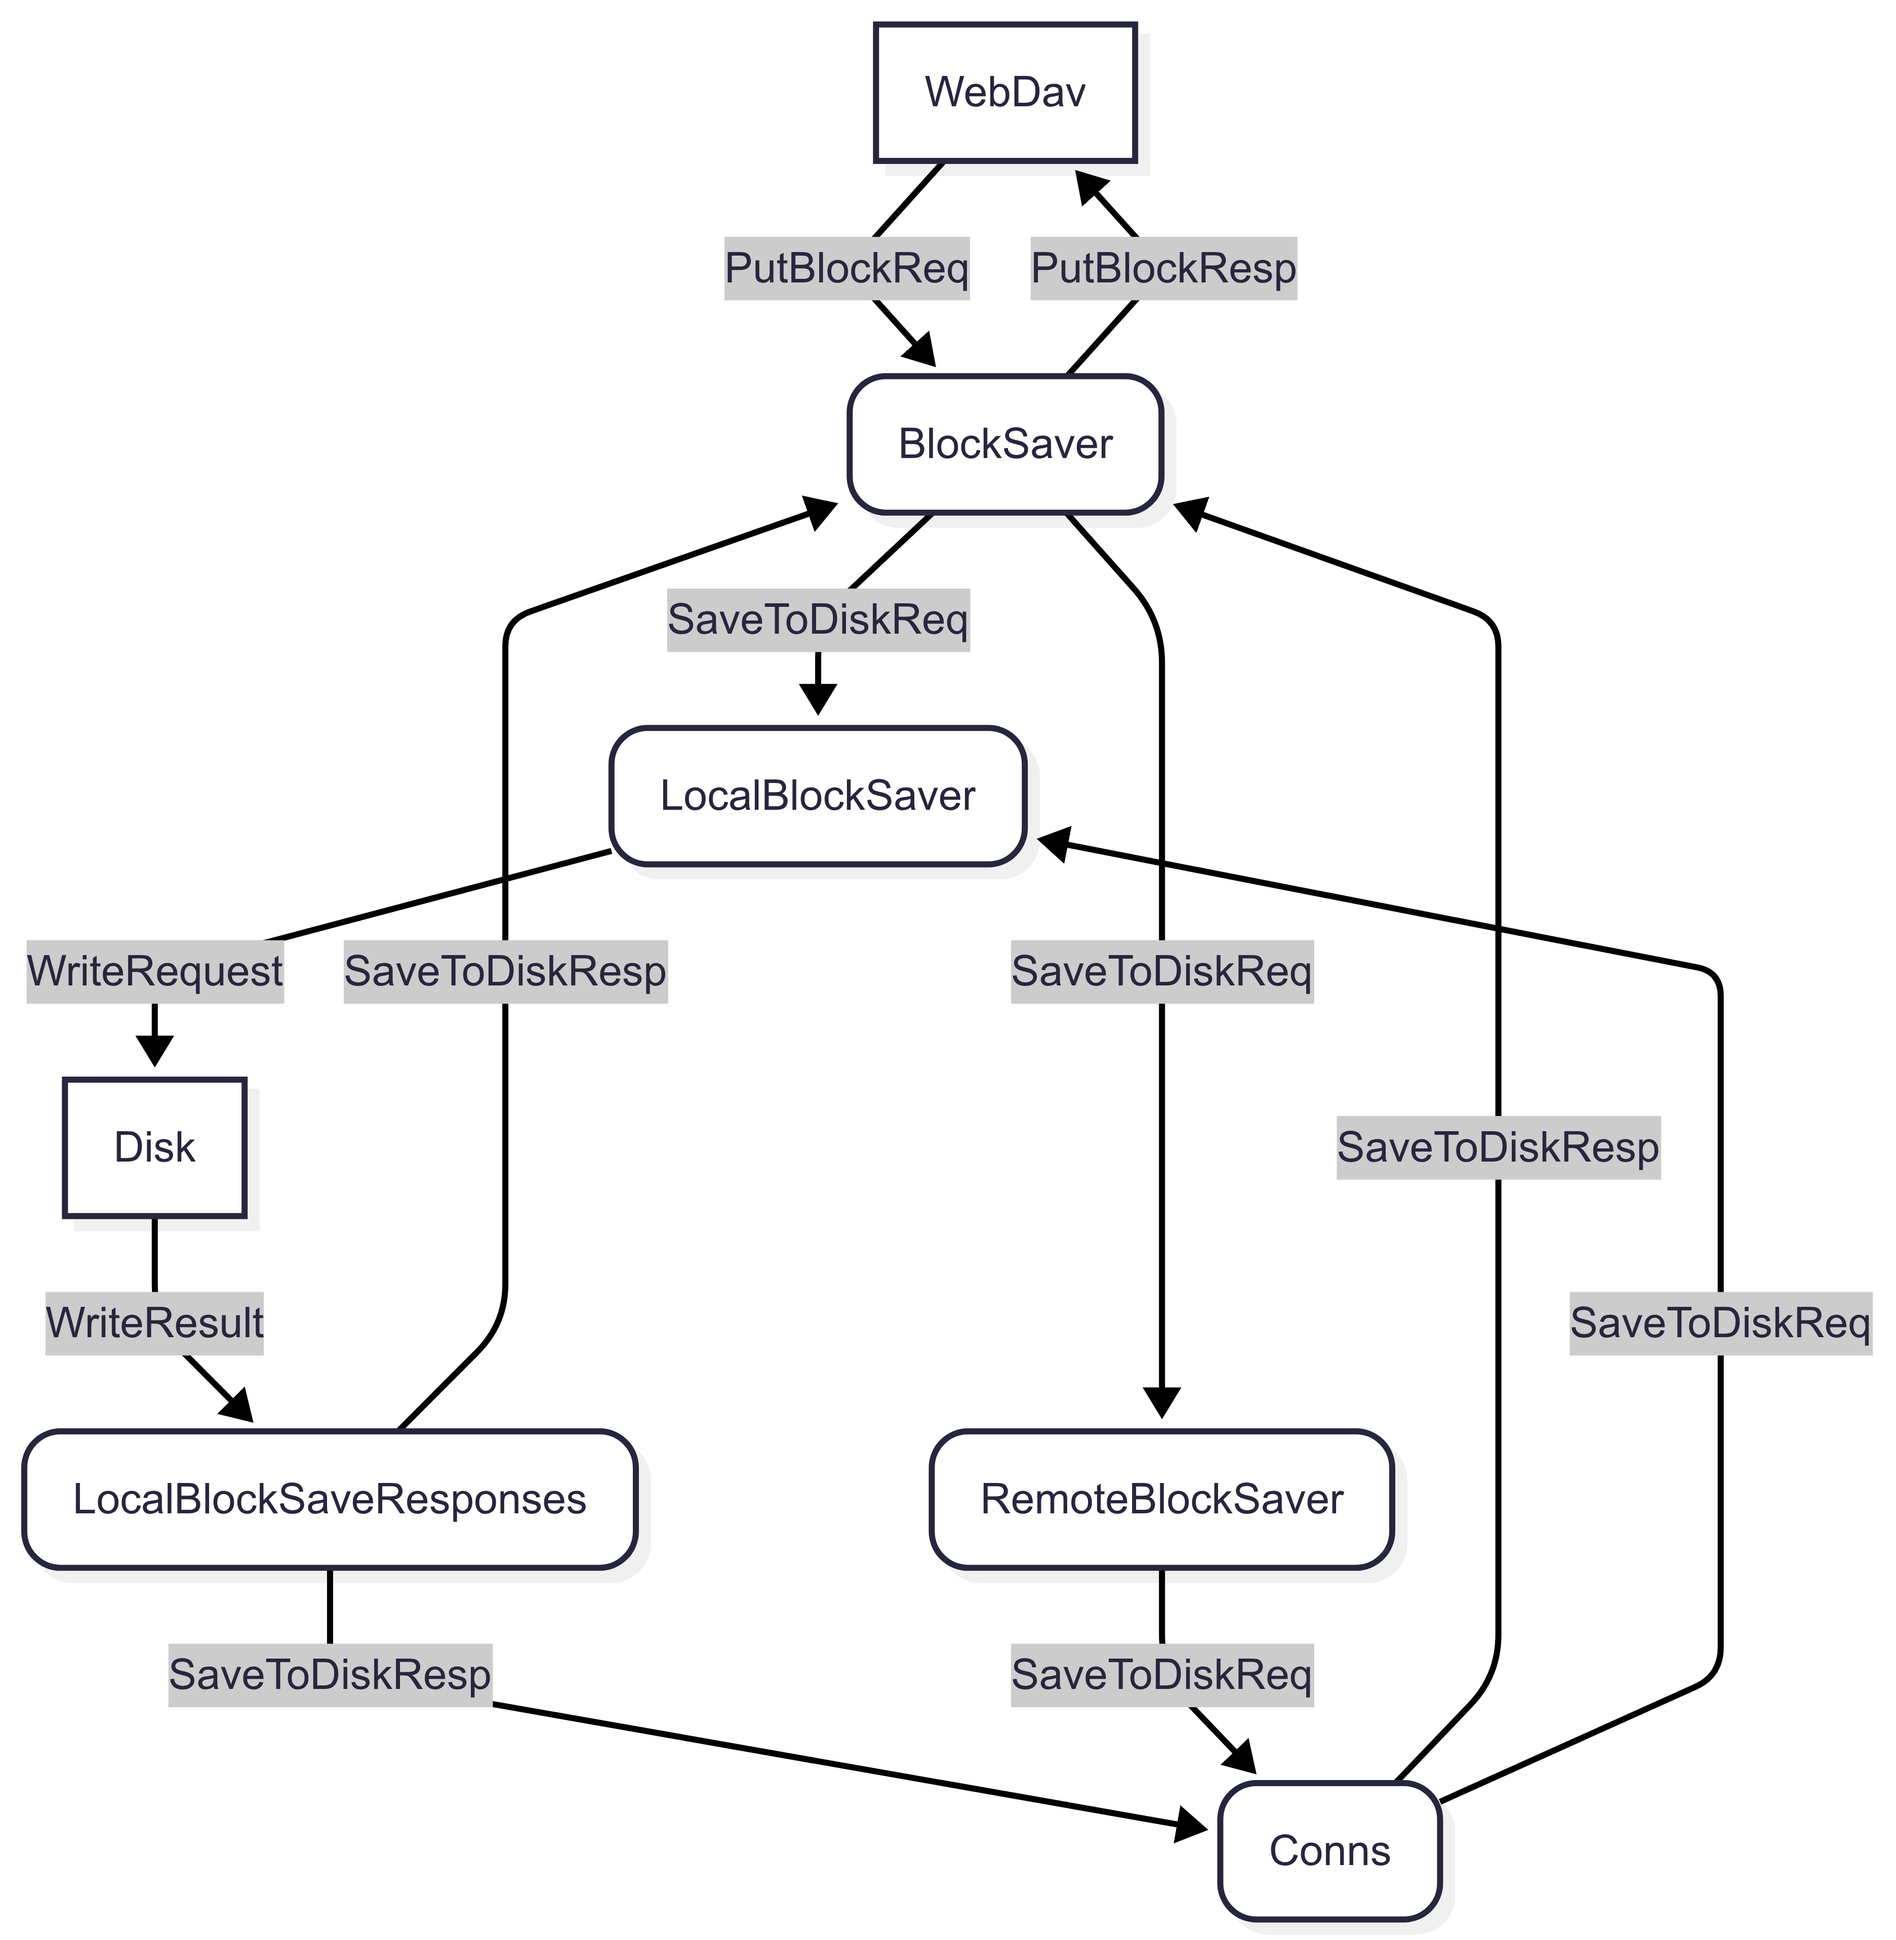
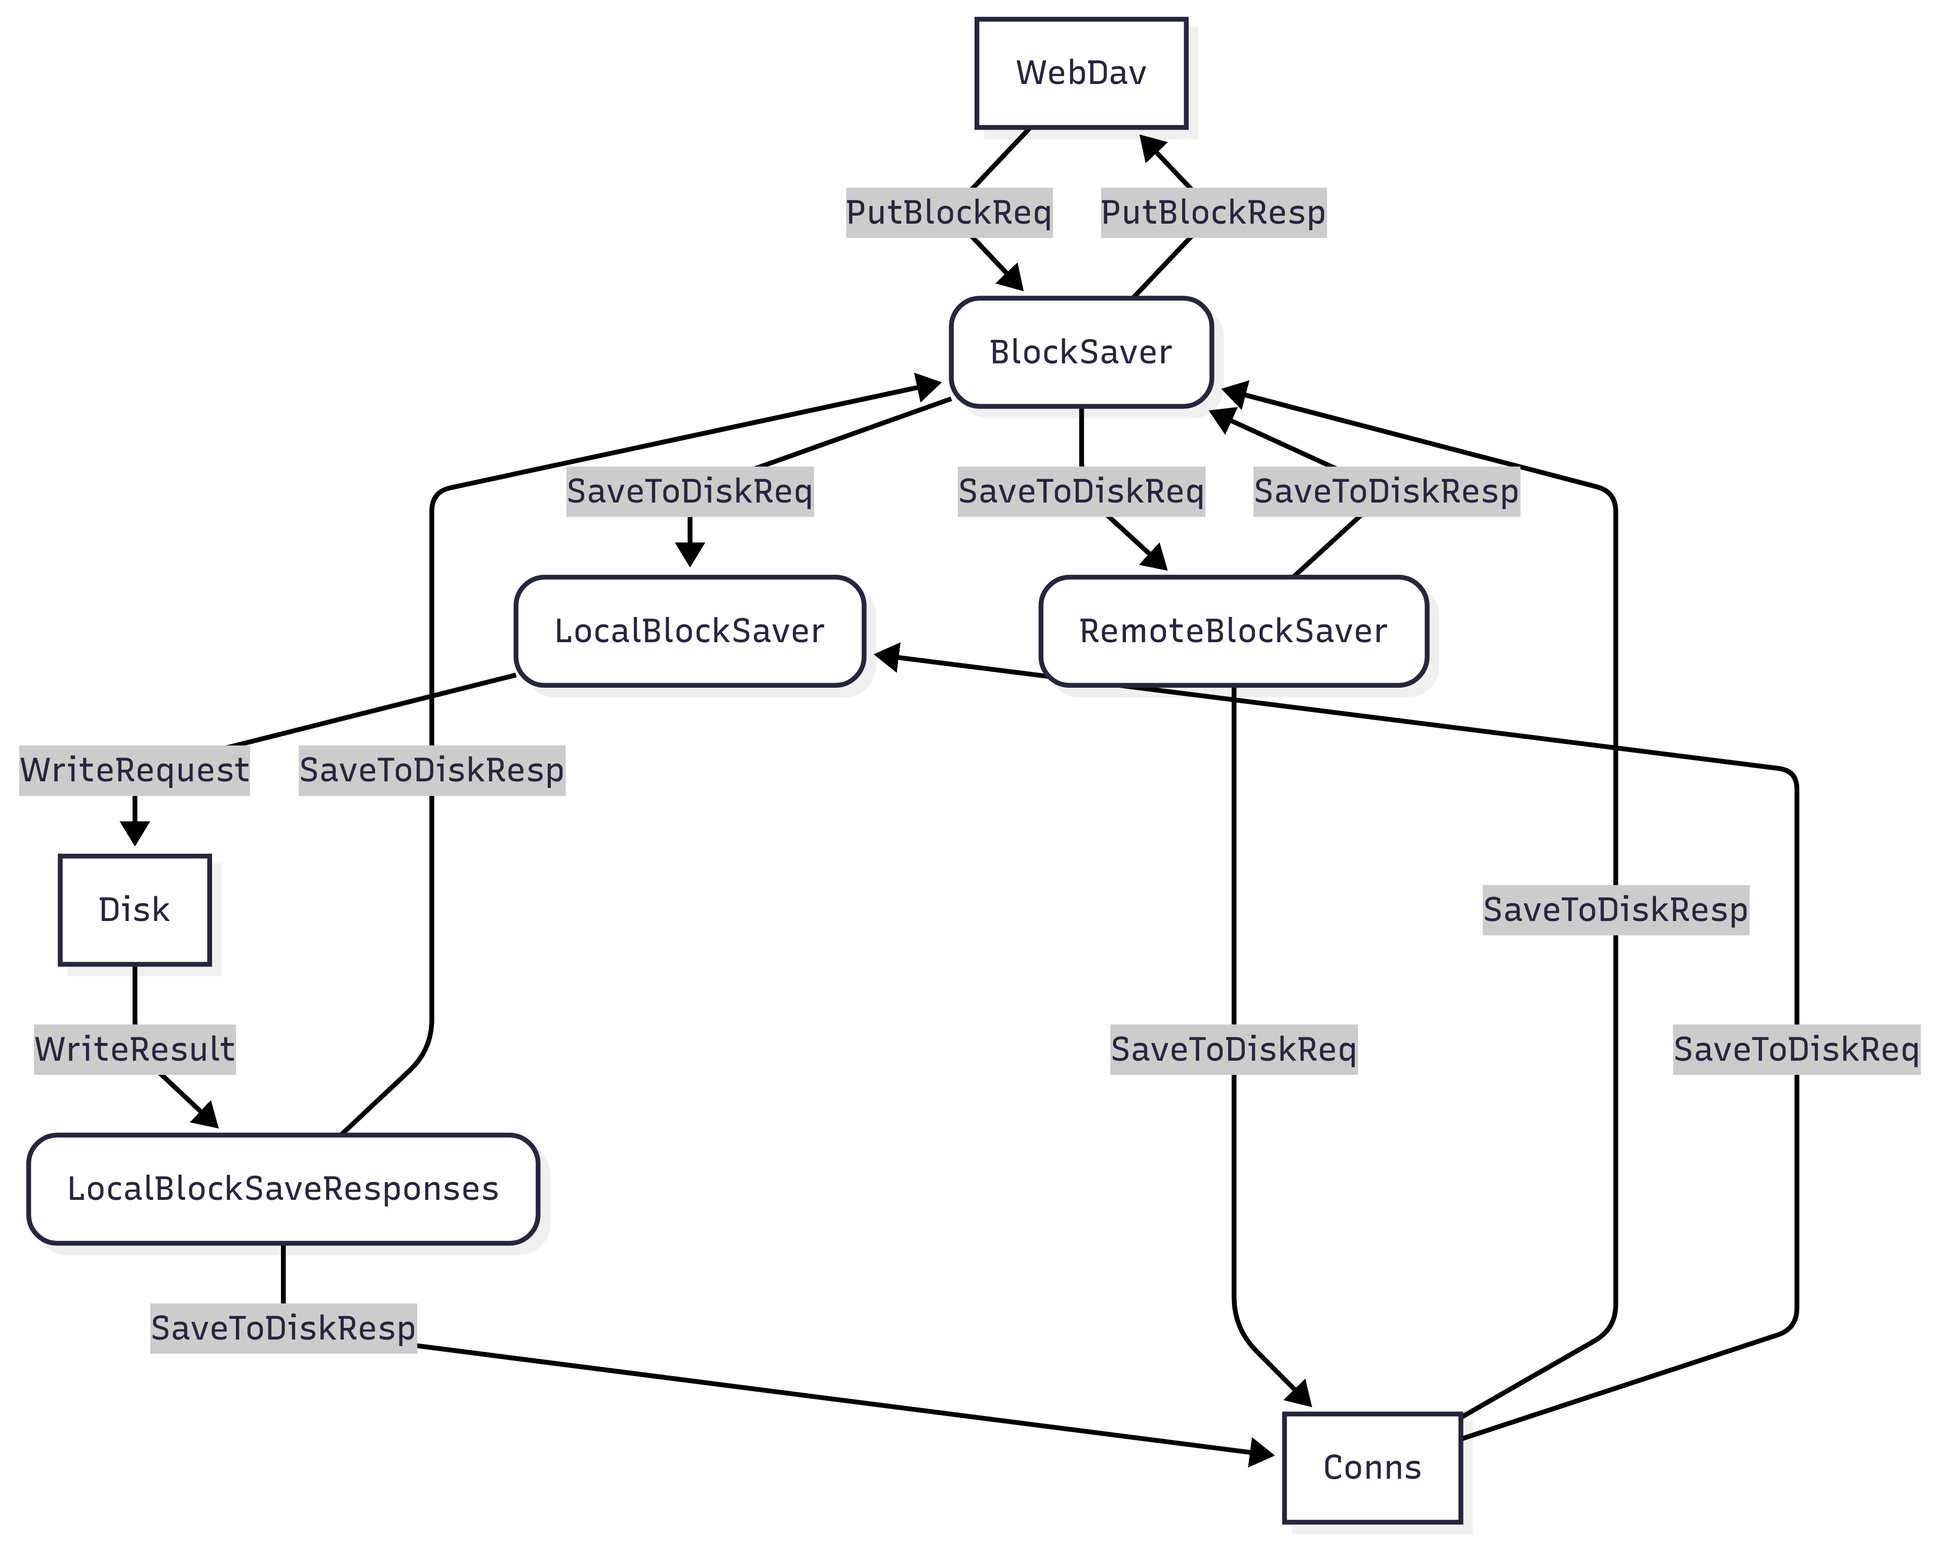
almost

diff --git a/tealfs.go b/tealfs.go
@@ -76,7 +76,7 @@ func startTealFs(globalPath string, webdavAddress string, uiAddress string, node
 	custodian.Commands = custodianCommands
 	custodian.Start(ctx)
 
-	_ = conns.NewConns(
+	conns := conns.NewConns(
 		m.ConnsMgrStatuses,
 		m.ConnsMgrReceives,
 		connReqs,
@@ -97,12 +97,18 @@ func startTealFs(globalPath string, webdavAddress string, uiAddress string, node
 		ctx,
 	)
 
+	addedDisks := make(chan *disk.Disk)
+	m.AddedDisk = addedDisks
+
 	webdavPutReq := make(chan model.PutBlockReq)
 	webdavPutResp := make(chan model.PutBlockResp)
 
 	localSave := make(chan blocksaver.SaveToDiskReq)
 	remoteSave := make(chan blocksaver.SaveToDiskReq)
 	saveResp := make(chan blocksaver.SaveToDiskResp)
+
+	conns.OutSaveToDiskReq = localSave
+	conns.OutSaveToDiskResp = saveResp
 
 	bs := blocksaver.BlockSaver{
 		Req:         webdavPutReq,
@@ -115,7 +121,28 @@ func startTealFs(globalPath string, webdavAddress string, uiAddress string, node
 	}
 	go bs.Start(ctx)
 
-	lbs := blocksaver.LocalBlockSaver{}
+	lbs := blocksaver.LocalBlockSaver{
+		Req:   localSave,
+		Disks: &m.Disks,
+	}
+	go lbs.Start(ctx)
+
+	rbs := blocksaver.RemoteBlockSaver{
+		Req:         remoteSave,
+		Sends:       m.MgrConnsSends,
+		NoConnResp:  saveResp,
+		NodeConnMap: nodeConnMapper,
+	}
+	go rbs.Start(ctx)
+
+	lbsr := blocksaver.LocalBlockSaveResponses{
+		InDisks:             addedDisks,
+		LocalWriteResponses: saveResp,
+		Sends:               m.MgrConnsSends,
+		NodeConnMap:         nodeConnMapper,
+		NodeId:              m.NodeId,
+	}
+	go lbsr.Start(ctx)
 
 	_ = webdav.New(
 		m.NodeId,

diff --git a/pkg/blocksaver/local_block_save_response_test.go b/pkg/blocksaver/local_block_save_response_test.go
@@ -18,7 +18,6 @@ import (
 	"context"
 	"tealfs/pkg/disk"
 	"tealfs/pkg/model"
-	"tealfs/pkg/set"
 	"testing"
 
 	"github.com/google/uuid"
@@ -33,15 +32,13 @@ func TestLocalBlockSaveResponse(t *testing.T) {
 
 	disk1 := mockDisk(nodeId, ctx)
 	disk2 := mockDisk(nodeId, ctx)
-	disks := set.NewSet[disk.Disk]()
-	disks.Add(*disk1)
-	disks.Add(*disk2)
 
 	resp := make(chan SaveToDiskResp)
 	sends := make(chan model.MgrConnsSend)
+	addedDisks := make(chan *disk.Disk)
 
 	lbsr := LocalBlockSaveResponses{
-		Disks:               &disks,
+		InDisks:             addedDisks,
 		LocalWriteResponses: resp,
 		Sends:               sends,
 		NodeConnMap:         model.NewNodeConnectionMapper(),
@@ -50,6 +47,8 @@ func TestLocalBlockSaveResponse(t *testing.T) {
 
 	go lbsr.Start(ctx)
 
+	addedDisks <- disk1
+	addedDisks <- disk2
 	lbsr.NodeConnMap.SetAll(1, "some-address:123", remoteNodeId)
 
 	putBlockId := model.PutBlockId(uuid.NewString())

diff --git a/pkg/blocksaver/local_block_save_response.go b/pkg/blocksaver/local_block_save_response.go
@@ -19,13 +19,12 @@ import (
 	"errors"
 	"tealfs/pkg/disk"
 	"tealfs/pkg/model"
-	"tealfs/pkg/set"
 
 	log "github.com/sirupsen/logrus"
 )
 
 type LocalBlockSaveResponses struct {
-	Disks               *set.Set[disk.Disk]
+	InDisks             <-chan *disk.Disk
 	LocalWriteResponses chan<- SaveToDiskResp
 	Sends               chan<- model.MgrConnsSend
 	NodeConnMap         *model.NodeConnectionMapper
@@ -33,8 +32,13 @@ type LocalBlockSaveResponses struct {
 }
 
 func (l *LocalBlockSaveResponses) Start(ctx context.Context) {
-	for _, disk := range l.Disks.GetValues() {
-		go l.readFromChan(ctx, disk.OutWrites)
+	for {
+		select {
+		case <-ctx.Done():
+			return
+		case d := <-l.InDisks:
+			go l.readFromChan(ctx, d.OutWrites)
+		}
 	}
 }
 

diff --git a/pkg/blocksaver/blocksaver_test.go b/pkg/blocksaver/blocksaver_test.go
@@ -63,13 +63,13 @@ func TestBlockSaver(t *testing.T) {
 	req <- putBlockReq
 
 	localReq := <-localDest
-	if localReq.Req.Id() != putBlockReq.Id() {
+	if localReq.Req.Id() != putBlockReq.Id() || localReq.Caller != localNodeId {
 		t.Error("unexpected req id 1")
 		return
 	}
 
 	remoteReq := <-remoteDest
-	if remoteReq.Req.Id() != putBlockReq.Id() {
+	if remoteReq.Req.Id() != putBlockReq.Id() || remoteReq.Caller != localNodeId {
 		t.Error("unexpected req id 2")
 		return
 	}

diff --git a/pkg/mgr/mgr.go b/pkg/mgr/mgr.go
@@ -34,6 +34,7 @@ import (
 
 type Mgr struct {
 	ConnectToNodeReqs       chan<- model.ConnectToNodeReq
+	AddedDisk               chan<- *disk.Disk
 	UiMgrDisk               chan model.AddDiskReq
 	ConnsMgrStatuses        chan model.NetConnectionStatus
 	ConnsMgrReceives        chan model.ConnsMgrReceive
@@ -161,6 +162,7 @@ func (m *Mgr) createLocalDisk(id model.DiskId, path string) bool {
 		m.ctx,
 	)
 	m.Disks.Add(d)
+	m.AddedDisk <- &d
 	return true
 }
 

diff --git a/pkg/blocksaver/blocksaver.go b/pkg/blocksaver/blocksaver.go
@@ -91,7 +91,7 @@ func (bs *BlockSaver) handlePutReq(req model.PutBlockReq, requestState map[model
 		state := requestState[req.Id()]
 		state.Add(dest.DiskId)
 
-		saveToDisk := SaveToDiskReq{Dest: dest, Req: req}
+		saveToDisk := SaveToDiskReq{Dest: dest, Req: req, Caller: bs.NodeId}
 
 		// If the destination is this node send to the local disk, otherwise send to remote node
 		if dest.NodeId == bs.NodeId {
